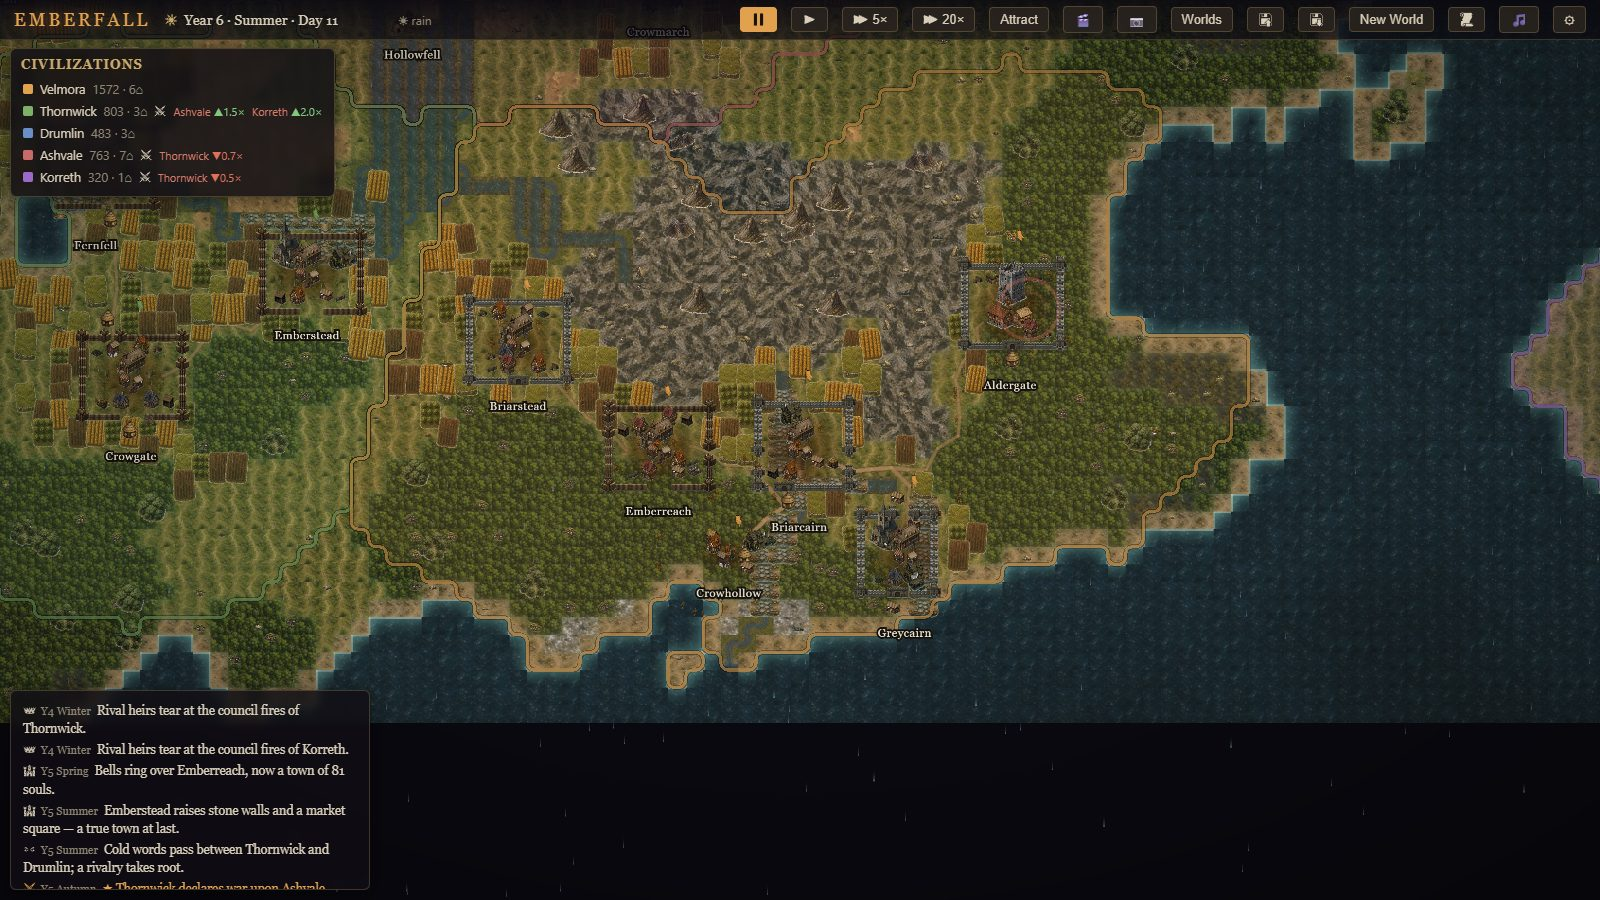
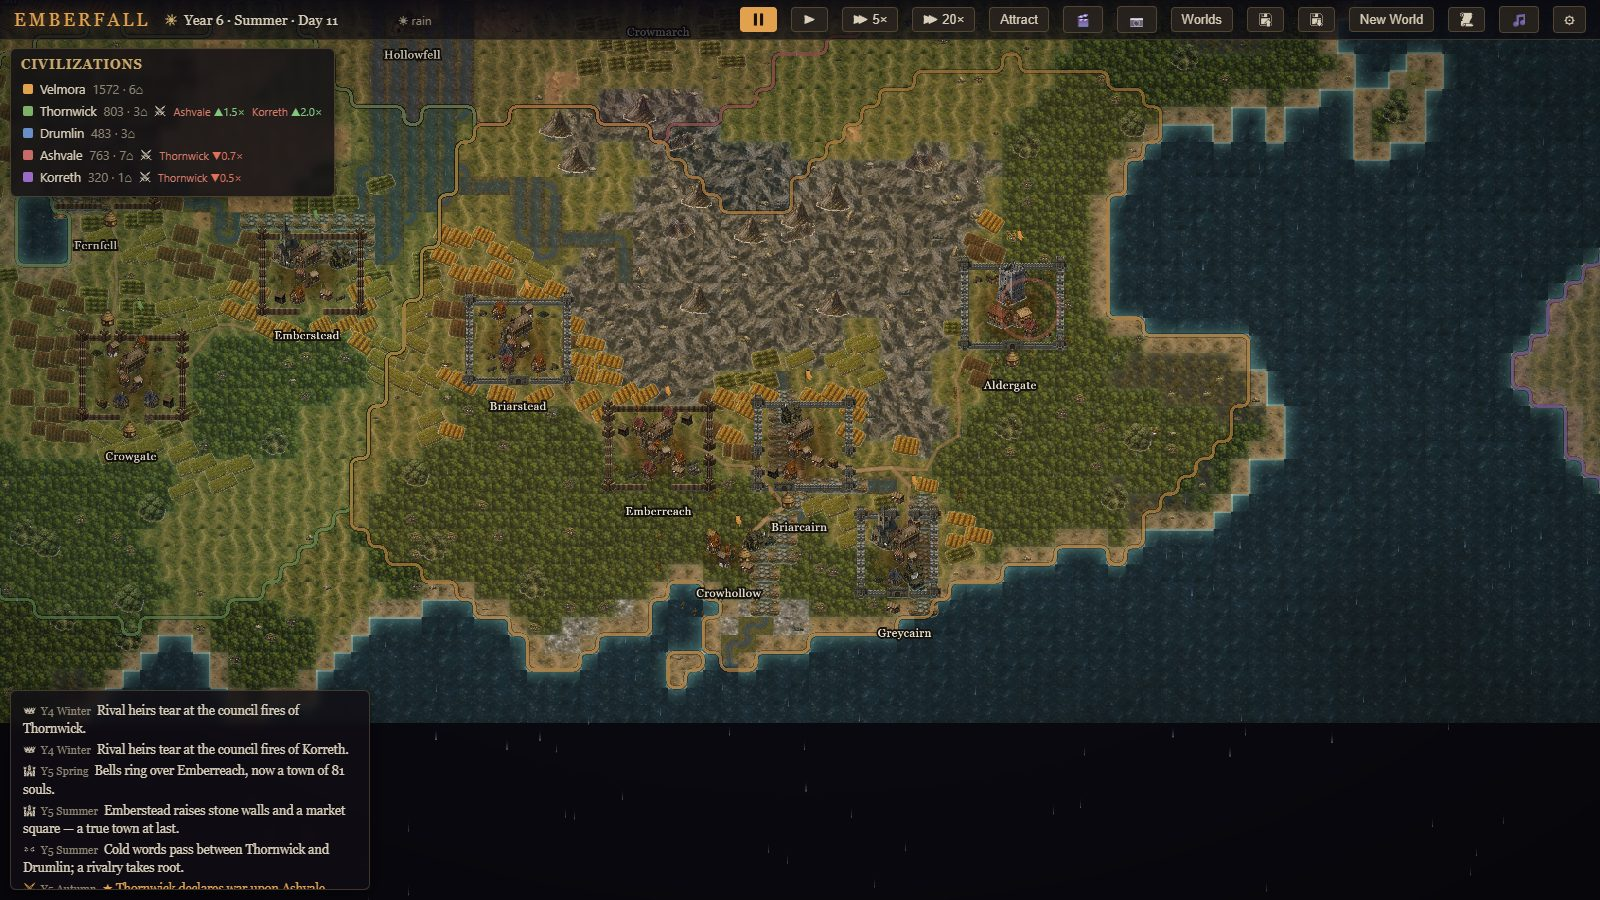
Batch 17: furlong fields — break field-patch regularity (codex review-7 #1)
Codex review-7 confirmed thinner crowds + macro role glyphs landed and named
field-patch regularity the #1 immersion-breaker (rectangular crop tiles repeat
like a board-game quilt now that crowds no longer hide the terrain).

Fields now clump into FURLONG BLOCKS (4×3 tiles) that share one crop and one
strip heading (±~31°, varied per block), rendered as elongated strips
(13×7.5 world px) with per-tile size + position jitter. Adjacent furlongs run at
clashing angles with ragged seams, and roads/woods/water cut irregular edges —
so the farmland reads as angled medieval open-field furlongs, not a per-tile
grid. Pure render/hash2 — no sim or determinism impact; 64 tests + 12-shot QA
green.

diff --git a/src/render/decorLayer.ts b/src/render/decorLayer.ts
@@ -107,10 +107,12 @@ export class DecorLayer {
     const LANDMARK = new Set(['canopy', 'mountain_formation']);
 
     // Agricultural halo: worked fields ring each established settlement on
-    // buildable grassland. This is the INVERSE bias to normal decor — fields
-    // WANT to hug a village/town (a settlement sits in its cultivated land)
-    // and thin with distance. Rendered first (beneath later scatter) and
-    // recorded in `fieldTiles` so trees/rocks never sprout on a tilled field.
+    // buildable grassland (inverse bias to normal decor — fields hug a town,
+    // thinning with distance). Tiles clump into FURLONG BLOCKS that share one
+    // crop and one strip direction, rendered as elongated strips, so the land
+    // reads as angled medieval open-field furlongs with awkward seams between
+    // blocks — not a per-tile board-game quilt. Recorded in `fieldTiles` so
+    // trees/rocks never sprout on tilled ground.
     const fieldTiles = new Set<number>();
     const fields = this.tex.decor?.field;
     if (fields?.length) {
@@ -127,16 +129,25 @@ export class DecorLayer {
             if (blocked.has(i) || state.roads[i] > 0) continue;
             if ((terrain[i] as Terrain) !== Terrain.Grassland) continue;
             const dist = Math.max(Math.abs(dx), Math.abs(dy));
-            const chance = 0.85 - (dist / (R + 1)) * 0.55;
+            const chance = 0.9 - (dist / (R + 1)) * 0.5;
             if (hash2(seed ^ 0xf1e1, nx, ny) >= chance) continue;
             fieldTiles.add(i);
-            const variant = Math.floor(hash2(seed ^ 0xf1e2, nx, ny) * fields.length);
+            // Furlong block (4×3 tiles): one crop + one strip heading, varied
+            // per block so adjacent furlongs run at clashing angles.
+            const bx = Math.floor(nx / 4);
+            const by = Math.floor(ny / 3);
+            const heading = (hash2(seed ^ 0xf1f0, bx, by) - 0.5) * 1.1; // ±~31°
+            const variant = Math.floor(hash2(seed ^ 0xf1f2, bx, by) * fields.length);
             const sp = new Sprite(fields[variant]);
             sp.anchor.set(0.5, 0.5); // flat ground patch, not a standing object
-            const w = 10 * (0.92 + hash2(seed ^ 0xf1e3, nx, ny) * 0.16); // ~1.2 tiles
-            sp.scale.set(w / sp.texture.width);
-            sp.rotation = (hash2(seed ^ 0xf1e4, nx, ny) - 0.5) * 0.3; // strip-field skew
-            sp.position.set((nx + 0.5) * ts, (ny + 0.5) * ts);
+            sp.rotation = heading;
+            const lenW = 13 * (0.82 + hash2(seed ^ 0xf1e3, nx, ny) * 0.3); // along furlong
+            const widW = 7.5 * (0.8 + hash2(seed ^ 0xf1e5, nx, ny) * 0.4); // across strips
+            sp.scale.set(lenW / sp.texture.width, widW / sp.texture.height);
+            sp.position.set(
+              (nx + 0.5 + (hash2(seed ^ 0xf1e4, nx, ny) - 0.5) * 0.5) * ts,
+              (ny + 0.5 + (hash2(seed ^ 0xf1e6, nx, ny) - 0.5) * 0.5) * ts,
+            );
             sp.tint = SEASON_TINT.field?.[season] ?? 0xffffff;
             this.container.addChild(sp);
           }

diff --git a/docs/playtest/CODEX_REVIEW7.md b/docs/playtest/CODEX_REVIEW7.md
@@ -1,0 +1,54 @@
+# Emberfall Review 7: Thinner Crowds + Macro Role Identity
+
+Screens: macro-roles (macro cluster), 01-macro-day (full region), burg-market-
+river (Moormarch), burg-fort (Aldergate), burg-abbey (Fernhaven). gpt-5.5
+high-reasoning, multimodal. Seed 48, year 6, noon.
+
+## A. Did the fixes land?
+
+**Crowd fix landed** — settlement plans are readable again: Moormarch's market
+core / wall / river edge / mill / road bends, Aldergate's keep / muster yard /
+gate / wall, Fernhaven's abbey cluster + farm plots are no longer swallowed by
+people. Remaining crowd issue is not raw density but **visual competition**: the
+large golden selection/attraction rings obscure the market town (Image 3) more
+than the citizens now; the abbey's purple agents still make the precinct feel
+busier than a contemplative center.
+
+**Macro role glyphs — partially successful**:
+- Fort reads best (keep/tower silhouette distinct).
+- Abbey readable at close macro but risks "generic building marker" at full
+  region unless you know the legend.
+- Market diamond readable but competes with other diamond markers.
+- Forest/conifer weakest — blends into actual forest terrain.
+- Village square / camp dot functional but low personality.
+The concept is right; the issue is scale/contrast — needs slightly larger
+silhouettes, a dark outline/halo, or role-specific color accents in addition to
+the civ tint. Discoverable up close (Image 1), too easy to miss full-region.
+
+## B. Three-axis read
+- **Visual**: strong; much better macro-to-close rhythm. Walled towns (3,4) are
+  the strongest pieces; the keep is a major "this place matters" anchor.
+- **Playability**: much improved. Remaining offenders are overlay-related — the
+  event log + civ panel are very dark/low-contrast, and the selection rings
+  (Image 3) too dominant for an idle aquarium view.
+- **Medieval authenticity**: better at settlement scale, weakest at landscape-
+  agriculture scale — fields still too modern/tile-regular; rectangular crop
+  patches repeat like board-game tiles, not furlongs/strips/commons.
+
+**Single weakest immersion-breaker now: field-patch regularity** — more
+noticeable now that crowds no longer hide the terrain. Settlements got organic;
+the farmland hasn't caught up.
+
+## C. Next direction
+
+**#1: break field-patch regularity [layout-algo]** (no new art). Improves all
+three axes at once and benefits every settlement type.
+- Replace repeated rectangular blocks with ownership strips, furlongs, curved/
+  angled edges, partial enclosure.
+- Let fields bend around roads, woods, streams, walls, village edges.
+- Mix long narrow strips with small crofts near houses + larger irregular
+  open-field patches farther out.
+- Reduce perfect crop-grid repetition (esp. Fernhaven, Aldergate).
+
+Then **castle-on-high-ground [sim]** (the keep deserves geographic logic), then
+stronger **abbey enclosure [layout-algo]** third.
